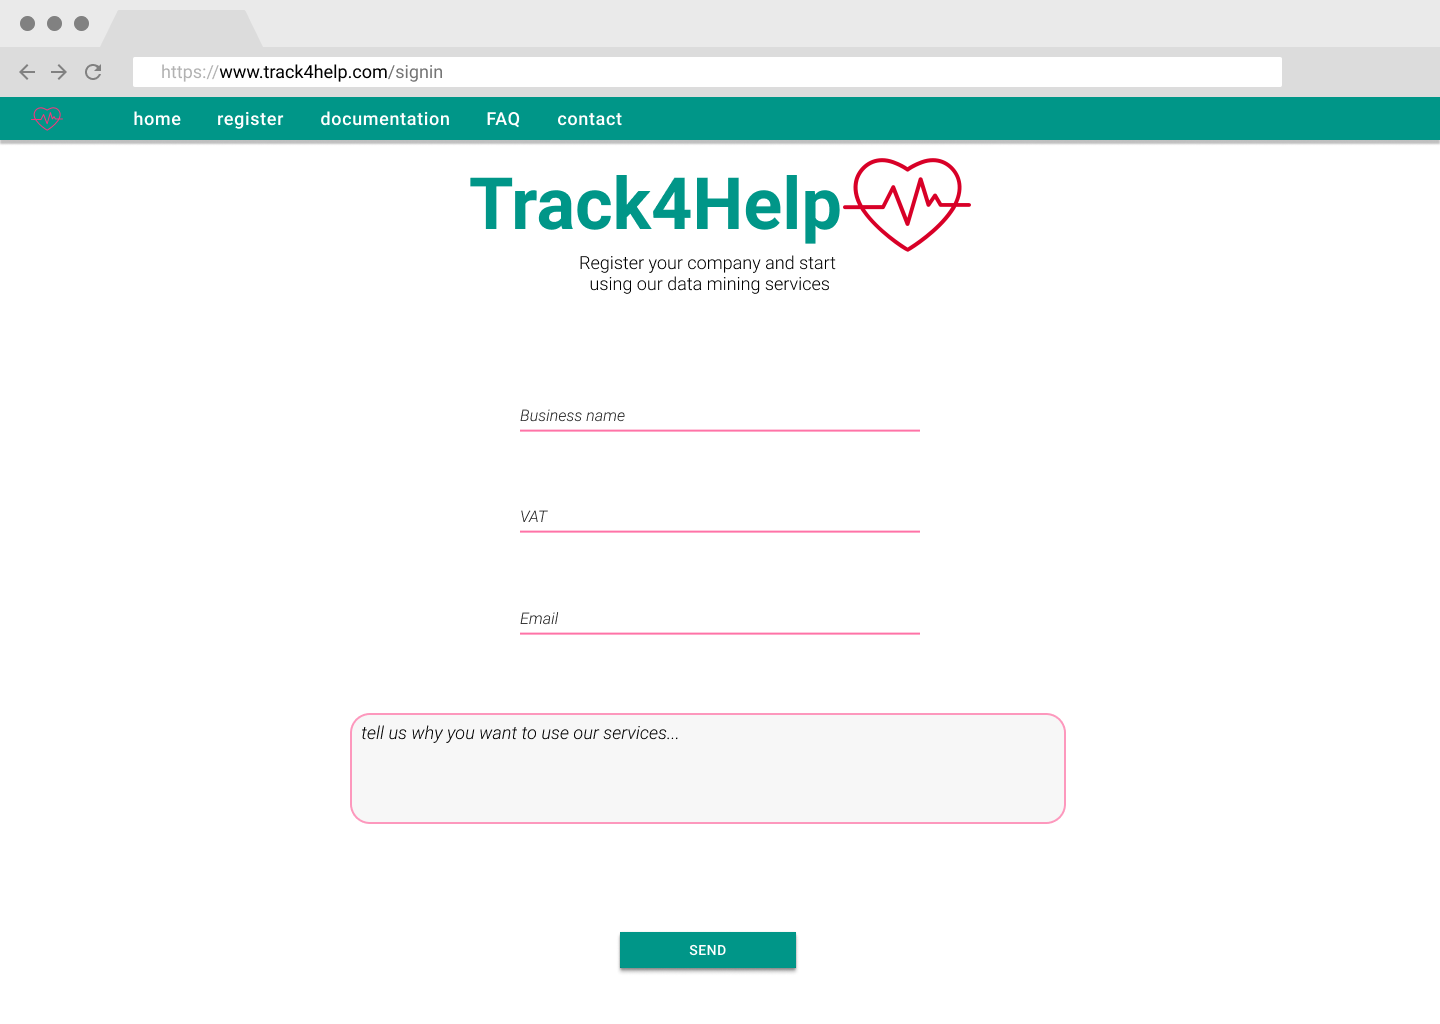
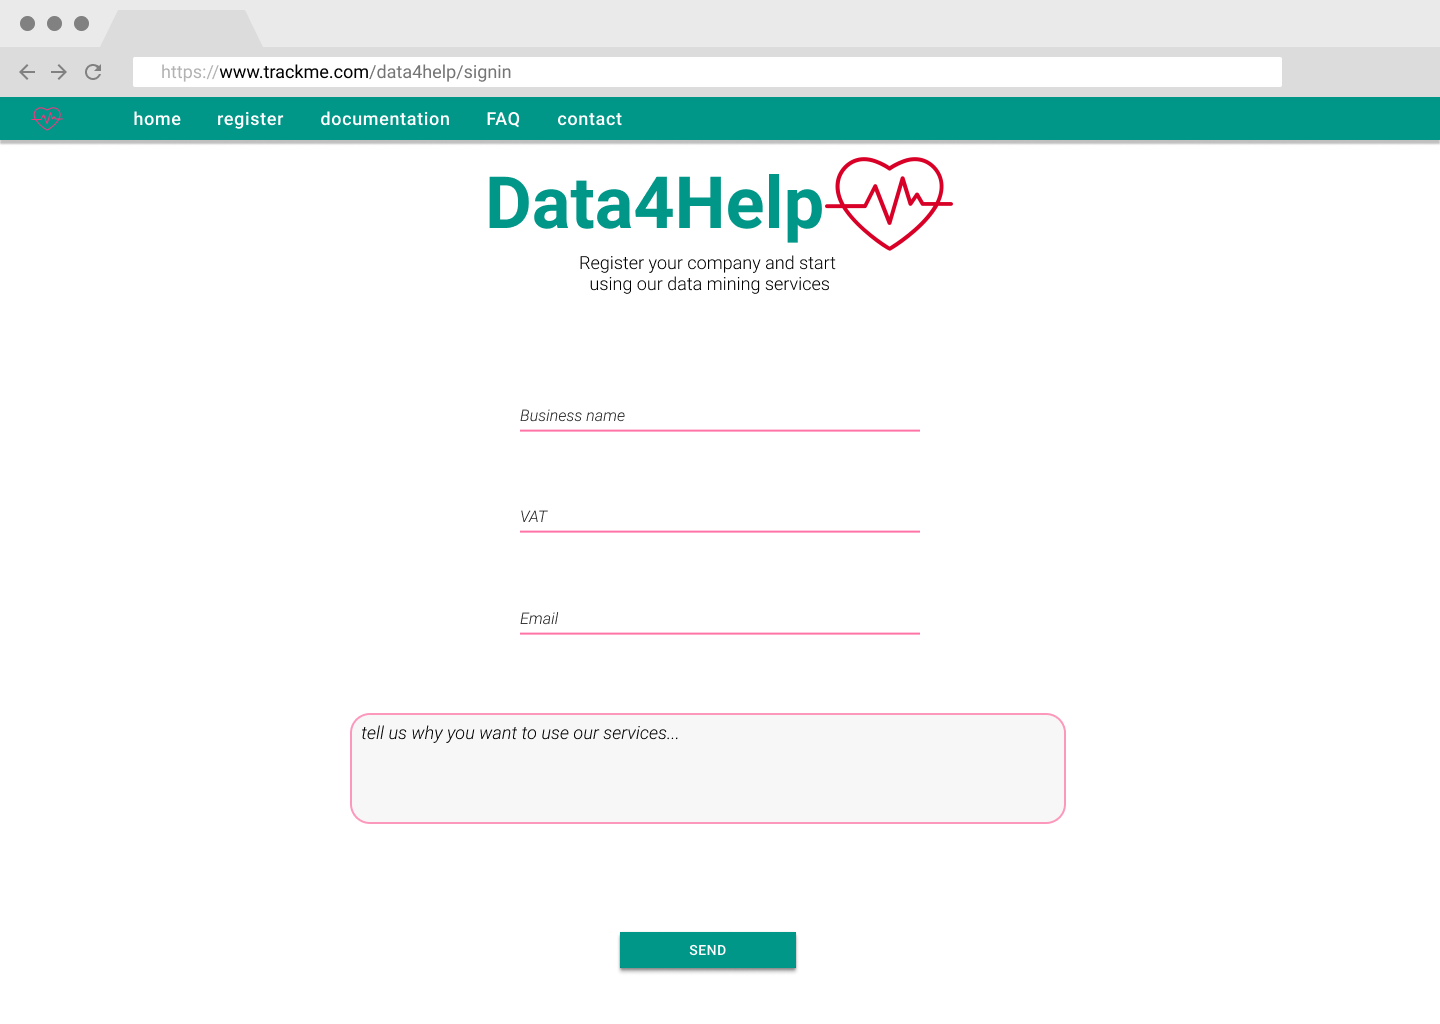
minor fix and correction

Changed region(s): [[0.3125, 0.1562, 0.6875, 0.25], [0.2188, 0.0625, 0.3438, 0.0938]]

diff --git a/RASD/sections/specificRequirements.tex b/RASD/sections/specificRequirements.tex
@@ -6,7 +6,7 @@
 
 \subsubsection{User interfaces}
 
-The mobile application was designed taking into account that users can utilize only the core functionality of the app (\textbf{Track4Help}) or all services offered (\textbf{track4Run} \& \textbf{AutomatedSOS}).\\
+The mobile application was designed taking into account that users can utilize only the core functionality of the app (\textbf{Data4Help}) or all services offered (\textbf{track4Run} \& \textbf{AutomatedSOS}).\\
 Opening the application, user is presented with the login page (\textit{Fig. 8.a}), if not already registered, he can sign in.\\
  Once logged in the user is presented with his "Main Feed" (Fig. 8.b), in this page all important information (upcoming runs, smartdevices status and company requests) are presented in a scroll page with clickable panels,
  the objective is to aggregate all three services informations in one screen to simplify the UX.
@@ -101,10 +101,10 @@ By clicking on Sharing in the settings screen (\textit{Fig 10.a}) the user is pr
 \begin{figure}[H]
 	\centering
 	\includegraphics[scale=0.3]{images/mockup/webpage.png}
-	\caption{sign in forms for Track4Help}
+	\caption{sign in forms for Data4Help}
 	\label{mockup_webpage}
 \end{figure}
-The website of \textbf{Track4Help} will offer a simple form to register a company and the API documentations for developers.
+The website of \textbf{Data4Help} will offer a simple form to register a company and the API documentations for developers.
 
 \subsubsection{Hardware requirements}
 
@@ -697,7 +697,7 @@ Following are the hardware limitations required by the end customer for using ou
 
 
 	AutomatedSOS service must be up and running 24/7, the user must be quickly notified of
-	any communication issues between smartphone and AutomatedSOS smartdevices or with Track4Help servers.\\
+	any communication issues between smartphone and AutomatedSOS smartdevices or with Data4Help servers.\\
 	Track4Run service should be operative only during day hours, as it's expected a low utilization of the service during night hours as shown
 	in the histogram (Fig. 19).\\
 	Companies and devices should be able to communicate with TrackMe's servers 24/7.

diff --git a/RASD/main.tex b/RASD/main.tex
@@ -56,7 +56,7 @@ linktoc=all
 
 \thispagestyle{empty} % to hide pagenum
 \begin{center}
-	\includegraphics[scale=0.8]{images/mockup/logo.png}
+	\includegraphics[scale=0.8]{images/mockup/logo2.png}
 
 	
 
